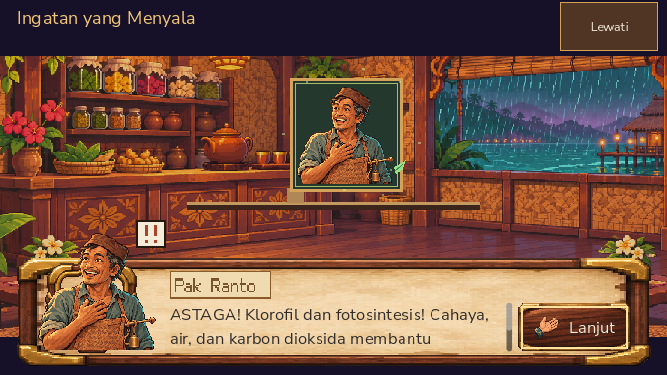
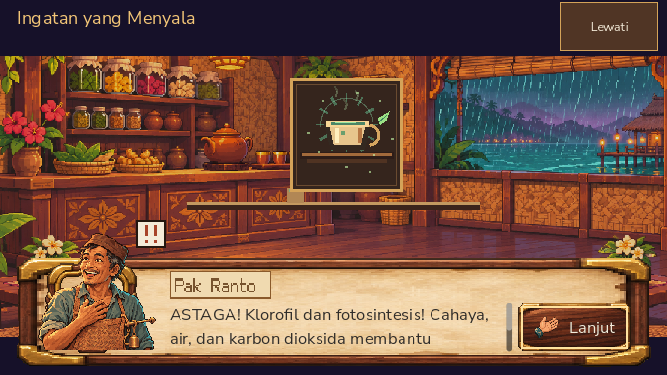
Show chlorophyll tea instead of duplicate portrait in first service

Changed region(s): [[0.4198, 0.2053, 0.5997, 0.4987]]

diff --git a/docs/assets/pak-ranto-portrait-v1.md b/docs/assets/pak-ranto-portrait-v1.md
@@ -1,6 +1,6 @@
 # Pak Ranto first-service portrait
 
-This is one **original static** bust portrait for Pak Ranto's first Kedai Waras service cut-in. The project owner supplied the Phase 1 screenplay and art direction; a Codex agent prompted and curated the image with the built-in image generation tool on 16 November 2026. No moodboard image, commercial game frame, third-party sprite pack, or other resident's portrait was used as the source. It does not provide character animation or a walking atlas.
+This is one **original static** bust portrait for Pak Ranto's first Kedai Waras service dialogue. The project owner supplied the Phase 1 screenplay and art direction; a Codex agent prompted and curated the image with the built-in image generation tool on 16 November 2026. No moodboard image, commercial game frame, third-party sprite pack, or other resident's portrait was used as the source. It does not provide character animation or a walking atlas.
 
 | File | Dimensions | SHA-256 |
 | --- | ---: | --- |
@@ -19,7 +19,7 @@ magick assets/source-2d/pak-ranto-portrait-v1/pak-ranto-imagegen-source.png \
 
 Installed Xprite Pixelate 0.1.2 was evaluated on the source. Its automatic detector returned `reliable: false` and a 1×1 grid, so no inferred Xprite grid was applied. The explicit point-sampled 160-pixel grid is the curated output. The portrait is shown with nearest-neighbour sampling in Godot. The 32×32 code sketch was rejected after a native 844×390 review and is not included.
 
[2 lines of base64/hex data omitted]
 
 The selected portrait is project artwork under the game-asset terms in [LICENSE](../../LICENSE), separate from the MIT code license. The built-in image generation service, ImageMagick, and Xprite were authoring/evaluation tools only; no third-party art license is imported.
 
